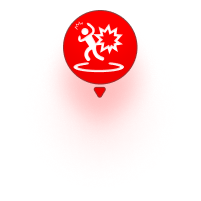
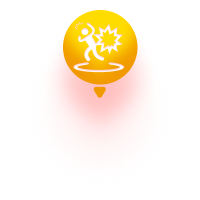
Progress

Changed region(s): [[0.3, 0.03, 0.69, 0.51]]

diff --git a/lib/common/map/symbols.dart b/lib/common/map/symbols.dart
@@ -37,22 +37,22 @@ class SymbolLoader {
     await add("destination", "assets/images/destination.drawio.png", 84, 84);
     await add("waypoint", "assets/images/waypoint.drawio.png", 84, 84);
 
-    await add("airdark", "assets/images/air-dark.png", 201, 201);
-    await add("airlight", "assets/images/air-light.png", 201, 201);
-    await add("constructiondark", "assets/images/construction-dark.png", 201, 201);
-    await add("constructionlight", "assets/images/construction-light.png", 201, 201);
-    await add("parkdark", "assets/images/park-dark.png", 201, 201);
-    await add("parklight", "assets/images/park-light.png", 201, 201);
+    await add("airdark", "assets/images/air-dark.png", 200, 200);
+    await add("airlight", "assets/images/air-light.png", 200, 200);
+    await add("constructiondark", "assets/images/construction-dark.png", 200, 200);
+    await add("constructionlight", "assets/images/construction-light.png", 200, 200);
+    await add("parkdark", "assets/images/park-dark.png", 200, 200);
+    await add("parklight", "assets/images/park-light.png", 200, 200);
     await add("positiondark", "assets/images/position-dark.png", 400, 400);
     await add("positionlight", "assets/images/position-light.png", 400, 400);
     await add("positionstaticdark", "assets/images/position-static-dark.png", 400, 400);
     await add("positionstaticlight", "assets/images/position-static-light.png", 400, 400);
-    await add("rentdark", "assets/images/rent-dark.png", 201, 201);
-    await add("rentlight", "assets/images/rent-light.png", 201, 201);
-    await add("repairdark", "assets/images/repair-dark.png", 201, 201);
-    await add("repairlight", "assets/images/repair-light.png", 201, 201);
-    await add("accidentdark", "assets/images/accident-dark.png", 201, 201);
-    await add("accidentlight", "assets/images/accident-light.png", 201, 201);
+    await add("rentdark", "assets/images/rent-dark.png", 200, 200);
+    await add("rentlight", "assets/images/rent-light.png", 200, 200);
+    await add("repairdark", "assets/images/repair-dark.png", 200, 200);
+    await add("repairlight", "assets/images/repair-light.png", 200, 200);
+    await add("accidentdark", "assets/images/accident-dark.png", 200, 200);
+    await add("accidentlight", "assets/images/accident-light.png", 200, 200);
 
     await add("route-label-primary-left", "assets/images/route-label-primary-left.png", 200, 63);
     await add("route-label-primary-right", "assets/images/route-label-primary-right.png", 200, 63);

diff --git a/lib/feedback/views/main.dart b/lib/feedback/views/main.dart
@@ -124,7 +124,7 @@ class FeedbackViewState extends State<FeedbackView> {
   Widget renderLoadingIndicator() {
     return Scaffold(
       body: Container(
-        color: Theme.of(context).colorScheme.surface,
+        color: Theme.of(context).colorScheme.background,
         width: MediaQuery.of(context).size.width,
         child: Column(
           mainAxisAlignment: MainAxisAlignment.center,
@@ -160,11 +160,10 @@ class FeedbackViewState extends State<FeedbackView> {
     final bottomSheetHeight = 228.0 + MediaQuery.of(context).padding.bottom;
 
     return AnnotatedRegionWrapper(
-      backgroundColor: Theme.of(context).colorScheme.primary,
+      backgroundColor: Theme.of(context).colorScheme.surface,
       brightness: Theme.of(context).brightness,
       systemNavigationBarIconBrightness: Brightness.light,
       child: Scaffold(
-        backgroundColor: Theme.of(context).colorScheme.surface,
         body: SizedBox(
           height: MediaQuery.of(context).size.height - bottomSheetHeight,
           child: SingleChildScrollView(

diff --git a/lib/ride/views/speedometer/speed_arc.dart b/lib/ride/views/speedometer/speed_arc.dart
@@ -1,7 +1,6 @@
 import 'dart:math';
 
 import 'package:flutter/material.dart';
-import 'package:priobike/common/layout/ci.dart';
 
 class SpeedometerSpeedArcPainter extends CustomPainter {
   final double minSpeed;
@@ -38,7 +37,7 @@ class SpeedometerSpeedArcPainter extends CustomPainter {
           tileMode: TileMode.mirror,
           colors: [
             Colors.white.withOpacity(0.0),
-            CI.radkulturRed.withOpacity(0.2),
+            Colors.white.withOpacity(0.2),
           ],
           stops: const [0.75, 1.0],
           transform: const GradientRotation(startAngle),
@@ -128,7 +127,7 @@ class SpeedometerSpeedArcPainter extends CustomPainter {
     );
 
     final paint = Paint()
-      ..color = CI.radkulturRed
+      ..color = Colors.grey
       ..maskFilter = const MaskFilter.blur(BlurStyle.normal, 1);
 
     canvas.drawRRect(

diff --git a/lib/routing/views/sheet.dart b/lib/routing/views/sheet.dart
@@ -216,10 +216,8 @@ class RouteDetailsBottomSheetState extends State<RouteDetailsBottomSheet> {
                   ),
                   TextSpan(
                     text: textTrafficLights,
-                    style: TextStyle(
-                      color: Theme.of(context).colorScheme.brightness == Brightness.dark
-                          ? const Color.fromARGB(255, 0, 255, 106)
-                          : const Color.fromARGB(255, 0, 220, 92),
+                    style: const TextStyle(
+                      color: CI.radkulturGreen,
                     ),
                   ),
                 ]),

diff --git a/lib/routing/views/details/waypoints.dart b/lib/routing/views/details/waypoints.dart
@@ -117,7 +117,7 @@ class RouteWaypointItem extends StatelessWidget {
             height: 42,
             width: frame.size.width - 106,
             decoration: BoxDecoration(
-              color: Theme.of(context).colorScheme.surface.withOpacity(0.2),
+              color: Theme.of(context).colorScheme.surface.withOpacity(0.1),
               borderRadius: const BorderRadius.all(Radius.circular(16)),
               border: Border.all(color: Theme.of(context).colorScheme.onSurface.withOpacity(0.1)),
             ),

diff --git a/lib/tracking/views/track_history_item.dart b/lib/tracking/views/track_history_item.dart
@@ -371,7 +371,7 @@ class TrackHistoryItemDetailViewState extends State<TrackHistoryItemDetailView> 
                       key: ValueKey(widget.track.sessionId),
                       track: positions,
                       colors: const [
-                        CI.radkulturRed,
+                        CI.radkulturGreen,
                         CI.radkulturYellow,
                       ],
                       blurRadius: 2,

diff --git a/lib/routing/views/layers.dart b/lib/routing/views/layers.dart
@@ -200,7 +200,7 @@ class LayerSelectionItem extends StatelessWidget {
           padding: const EdgeInsets.all(0),
           borderRadius: BorderRadius.circular(26),
           splash: Theme.of(context).colorScheme.primary,
-          fill: Theme.of(context).colorScheme.surface,
+          fill: Theme.of(context).colorScheme.onSurface,
           onPressed: onTap,
           content: Container(
             width: double.infinity,

diff --git a/lib/common/map/layers/poi_layers.dart b/lib/common/map/layers/poi_layers.dart
@@ -546,13 +546,13 @@ class TrafficLayer {
                 "heavy",
                 ["get", "congestion"]
               ],
-              "#ee4e8b",
+              "#FFDC00",
               [
                 "==",
                 "severe",
                 ["get", "congestion"]
               ],
-              "#b43b71",
+              "#FFDC00",
               "#000000"
             ],
           ));
